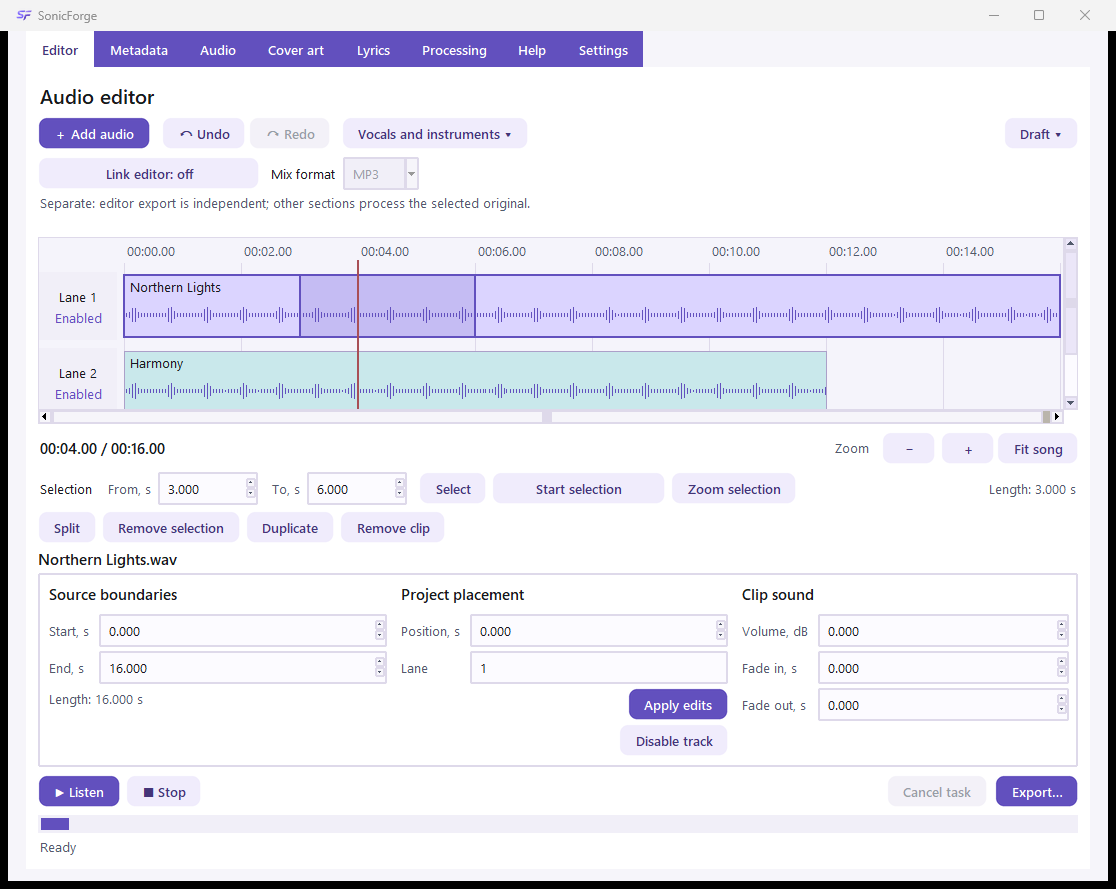
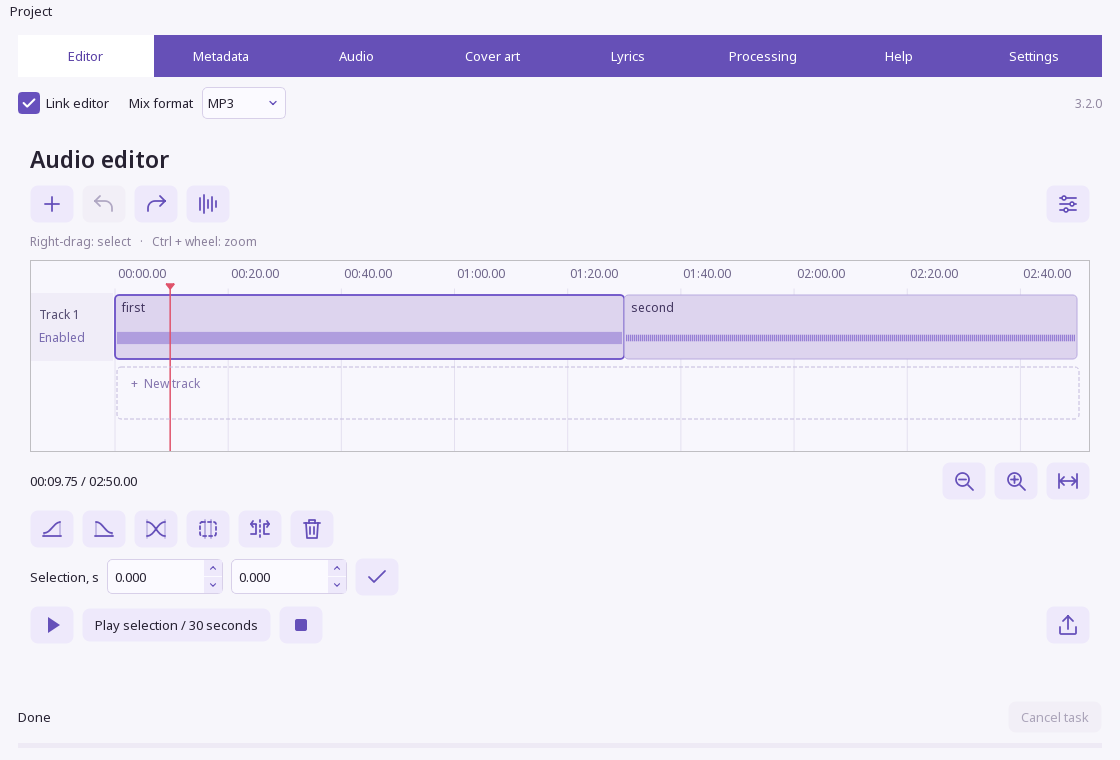
Improve download buttons and add complete English documentation

diff --git a/README.en.md b/README.en.md
@@ -1,0 +1,113 @@
+# SonicForge 3.2.0
+
+[RU](README.md) · **English**
+
+An audio editor for Windows with multitrack editing, audio processing, metadata, procedural cover art and synchronized lyrics. Built with **C++20 / Qt 6**, SonicForge runs recognition, lyric alignment and stem separation locally. No Python runtime is required.
+
+## Download
+
+<p>
+  <a href="https://github.com/dumuzeyn/SonicForge/releases/download/v3.2.0/SonicForge-Setup.exe"><img src="docs/images/download-installer-en.svg" alt="Download the SonicForge Windows installer" width="240" height="68"></a>
+  <a href="https://github.com/dumuzeyn/SonicForge/releases/download/v3.2.0/SonicForge-windows-x64.zip"><img src="docs/images/download-portable-en.svg" alt="Download the SonicForge portable ZIP" width="240" height="68"></a>
+  <a href="https://github.com/dumuzeyn/SonicForge/releases/download/v3.2.0/SonicForge-Uninstall.exe"><img src="docs/images/download-uninstaller-en.svg" alt="Download the standalone SonicForge uninstall launcher" width="240" height="68"></a>
+</p>
+
+[SHA-256 checksums](https://github.com/dumuzeyn/SonicForge/releases/download/v3.2.0/SHA256SUMS.txt) · [Release 3.2.0](https://github.com/dumuzeyn/SonicForge/releases/tag/v3.2.0) · [All releases](https://github.com/dumuzeyn/SonicForge/releases) · [Release notes](docs/RELEASE-3.2.0.en.md)
+
+**Requirements:** Windows 10/11 x64. Qt, FFmpeg and the required runtime libraries are included. Neural features need an AVX2-capable CPU and several gigabytes of available RAM. The standard release uses the CPU; Whisper Turbo uses less memory than Large.
+
+The installer and portable ZIP exclude the large recognition, alignment and separation models. When a feature first needs a model, SonicForge downloads it to your user data folder and verifies its SHA-256 hash. Internet access is needed for this initial download; processing then runs locally. You can edit audio or metadata without downloading every model.
+
+Release files are **not Authenticode-signed** because a publisher certificate is not available. SHA-256 checksums let you compare a download with the published file, but do not replace a trusted publisher signature. To check a downloaded file in PowerShell:
+
+```powershell
+Get-FileHash .\SonicForge-Setup.exe -Algorithm SHA256
+```
+
+![SonicForge 3.2 audio editor in English](docs/images/editor-en.png)
+
+## What's new in 3.2.0
+
+- `.sfproject` files save your edit, timestamped lyrics, settings and cover design. Autosave can restore an unfinished session after a crash.
+- Backups for replaced TXT/LRC files and exports, atomic writes and SHA-256 checks for source files. Individual batch failures are reported without discarding successful tracks.
+- MP3 SYLT and language-specific lyric tracks are preserved. Changing playback speed scales lyric timestamps. Damaged ID3 tags are validated before writing.
+- Large edits export without exceeding the Windows command-line limit or appending unbounded silence. Internal processing uses float PCM; export options include sample rate, channel count, WAV bit depth, FLAC and Opus.
+- Preview a selected excerpt using the final codec and quality. Audio processing with the limiter enabled checks true peak after encoding.
+- Faster drawing of the visible timeline, bounded undo history, precise numeric input, standard text editing menus and persistent audio settings.
+- Windows installed-app registration, a Start menu uninstall shortcut, a standalone uninstall launcher and compact downloads with models fetched on demand.
+
+## Features
+
+**Editing.** Scrollable tracks, drag-and-drop import, clip movement, splitting, duplication, range selection and deletion. Adjust clip volume and speed, apply a three-band EQ, fade clip edges and crossfade adjacent songs. Export WAV, MP3, M4A, FLAC and Opus. Undo and redo retain up to 100 edits.
+
+**Audio processing.** Loudness normalization, limiting, EQ, compression, filters, denoising, playback speed, pitch, stereo width, reverb and fades. Two players compare the original and processed excerpt; green seek-bar marks highlight changed regions. Automatic denoising is experimental and disabled by default.
+
+**Metadata.** MP3/ID3, FLAC, M4A, Ogg and Opus, embedded cover art, lyrics and separate TXT/LRC files. Editing one MP3 lyric language track preserves the others. Unsupported embedding is reported explicitly.
+
+**Cover art.** Three Music2Picture procedural styles: M2Pv1 spectral contours, M2Pv2 organic shapes and M2Pv3 textures that develop over time. M2Pv3 colors reflect local rhythm speed and density. Choose from 66 central symbols, create a palette, import an image, adjust fonts and text placement, or export PNG. The **Cover art** processing step embeds the result in the output audio file.
+
+**Lyrics and neural tools.** Add timestamps during playback, recognize lyrics with Whisper Large v3 or Turbo, or align supplied Russian or English lyrics directly to the audio. Timing correction preserves the supplied words and repeated lines. HTDemucs produces vocals/instrumental or four stems. MSD musicnn predicts genre labels from sections of the recording; automatic genre assignment is a separate opt-in setting.
+
+The application supports English and Russian. Select English on the **Settings** tab. Right-click an editor tool to see its name and contextual help.
+
+## Install, update and uninstall
+
+1. Run `SonicForge-Setup.exe`. It installs for the current Windows user in `%LOCALAPPDATA%\Programs\Sonic Forge`. Running the installer again updates the existing copy. Close SonicForge first: the installer does not forcibly terminate an open session.
+2. Open **Sonic Forge** from the Start menu. It also appears in **Settings > Apps > Installed apps** in Windows.
+3. Uninstall through Windows installed apps, the **Uninstall Sonic Forge** Start menu shortcut, or `SonicForge-Uninstall.exe`. The standalone launcher finds the installed copy and opens its standard uninstall confirmation. Your settings and personal audio files are preserved.
+
+For the portable edition, extract the entire ZIP and run `SonicForge/SonicForge.exe`. A portable copy is not registered in Windows installed apps. The standalone uninstall launcher is intended for the installed edition.
+
+## Workflow and saving
+
+Add files to the editor. **Link editor** passes the current edit to the other tabs; when disabled, those tabs use a separately selected file. **Processing** applies the enabled steps to copies in the output folder. **Save lyrics** can write lyrics directly into a selected MP3 with a backup, or save a separate TXT/LRC file.
+
+Use **Ctrl+S** to save a project and **Ctrl+O** to open one. Keep the `.sfproject.assets` folder alongside its project: it contains audio generated by SonicForge and the cover background. External source paths retain their original locations, so those files must remain available too. Backups of replaced files are stored in a neighboring `.sonicforge-backups` folder.
+
+| Action | Controls |
+|---|---|
+| Import audio | Ctrl+I |
+| Split / duplicate a clip | Ctrl+K / Ctrl+D |
+| Undo / redo | Ctrl+Z / Ctrl+Shift+Z |
+| Export the edit | Ctrl+E |
+| Zoom the timeline | Ctrl + mouse wheel |
+| Select a time range | Right-button drag |
+| Select the neighboring clip | Page Up / Page Down |
+| Move the cursor / selected clip | Arrow keys / Shift + arrow keys |
+| Timestamp the next lyric line | F8, with a 45 ms lead before the sound |
+
+Recognition, stem separation and genre predictions can be wrong. Listen to the result and correct the lyrics or timestamps when needed. The genre vocabulary is limited by the trained model; a loudness preset is not an assessment of a recording's artistic quality.
+
+## Build from source
+
+You need Windows x64, Git, CMake 3.24+, Ninja and FFmpeg (`ffmpeg.exe` and `ffprobe.exe`). Install Qt 6.10.0 for MinGW 13.1 x64, including Multimedia, SVG and Image Formats, in `build/qt/6.10.0/mingw_64`; put the compiler in `build/qt/Tools/mingw1310_64`. CMake and Ninja must be on PATH or in `build/native-tools/cmake/bin` and `build/native-tools/bin`. Building the installer also requires Inno Setup 6.
+
+```powershell
+# Compile and run CTest
+.\scripts\build_native.ps1
+
+# Update dist/SonicForge and build the installer, uninstall launcher and ZIP
+.\scripts\build_native.ps1 -Deploy -Installer -Portable -FfmpegRoot C:\ffmpeg
+```
+
+Dependency versions and hashes are pinned in `native/dependencies.json`, `native/runtime-lock.json` and `native/resources/models.json`. The full local bundle takes neural models from `build/native-models`; the release ZIP excludes the large models. `build-info.json` and `build-manifest.json` link the binaries to their source files and Git commit. The bundle is tested in `build` before replacing the canonical distribution folder. The installer and ZIP are also published by replacing prepared files.
+
+You can build Whisper with Vulkan using `-WhisperVulkan` if you have the Vulkan SDK and a compatible driver. This variant has not been separately validated; the standard build uses the CPU. Set `SF_CPU_ONLY=1` to disable GPU use in a GPU-capable build. HTDemucs and genre inference use the CPU.
+
+For Authenticode signing, set `SF_SIGN_CERT_SHA1` and install Windows SDK SignTool. Files remain unsigned without a certificate. The release script requires a clean working tree and matching commit, manifests and checksums; unsigned publication requires the explicit `-AllowUnsigned` switch.
+
+Cache files are separated into locked sessions, and inactive sessions are cleaned up. The default limit is 8 GiB, configurable with the QSettings key `cache/maxGiB`. Legacy temporary files from older versions are not deleted automatically.
+
+## Validation
+
+- **CTest:** core behavior, reliability regressions and GUI checks, including projects, timestamps, damaged tags, cancellation, file preservation and large edits.
+- **`scripts/check_native.ps1`:** the packaged app with a system-only PATH, real playback, lyrics, artwork, audio processing and clean shutdown. `-Neural` adds direct lyric alignment and four-stem separation.
+- **`scripts/check_installer.ps1 -FullPayload`:** isolated installation of the real bundle, upgrade, Windows registration, shortcuts and uninstall while preserving a personal file.
+- **`scripts/check_lyrics_quality.ps1 -Full`:** synthetic Russian and English speech with Large. Use `-RecognitionModel turbo` to test Turbo. Run heavy neural tests sequentially.
+- **GitHub Actions:** PowerShell/JSON validation and a standalone uninstall-launcher build on Windows.
+
+Python is required neither to run nor to build the application. The previous Python implementation is available in Git history and the `v3.0.0` tag. The detailed [audit](docs/AUDIT-2026-10-25.md) and [fix log](docs/FIXES-2026-10-26.md) are available in Russian.
+
+## License
+
+Original code and artwork: [LICENSE](LICENSE), SonicForge Noncommercial and Educational License 1.0. Third-party libraries, models and fonts have their own licenses; see the [third-party notices and source links](packaging/THIRD_PARTY_NOTICES.md).

diff --git a/docs/RELEASE-3.2.0.en.md b/docs/RELEASE-3.2.0.en.md
@@ -1,0 +1,29 @@
+# SonicForge 3.2.0
+
+[English README](../README.en.md) · [Download this release](https://github.com/dumuzeyn/SonicForge/releases/tag/v3.2.0)
+
+Reliability improvements following the October 25, 2026 audit.
+
+- Project saving and opening, autosave and recovery. Projects retain the edit, timestamped lyrics, cover design and settings.
+- Backups for replaced lyrics and exports, atomic writes, SHA-256 source checks, rollback of batch publication and separate reports for failed tracks.
+- Preserved SYLT and language-specific MP3 lyric tracks, timestamp scaling when speed changes, damaged-ID3 validation and support for common ID3v2.2/v2.3/v2.4 tags.
+- Large edits export without overflowing the Windows command line or appending unbounded silence. Internal processing uses float PCM, with selectable sample rate, channels and WAV bit depth, plus FLAC and Opus export. Preview uses the selected final codec and quality; processing with the limiter enabled checks true peak after encoding.
+- Whole-recording analysis, bounded undo history, efficient drawing of the visible timeline, precise numeric input, standard text editing menus and persistent audio settings.
+- Cache limits and cleanup, managed cancellation and timeouts, repair of damaged models in a writable user folder, and bounded-memory alignment of long lyrics.
+- Compact installer and portable ZIP with large models downloaded on demand. Windows installed-app registration, a Start menu uninstall shortcut and a standalone uninstall launcher. Distribution updates are staged and verified before replacement.
+- Build provenance manifests, pinned runtime hashes, additional regression checks and a Windows packaging workflow.
+
+## Downloads
+
+- `SonicForge-Setup.exe`: install or update the application for the current Windows user.
+- `SonicForge-Uninstall.exe`: find the installed copy and open its standard uninstall confirmation.
+- `SonicForge-windows-x64.zip`: extract everything and run `SonicForge/SonicForge.exe`.
+- `SHA256SUMS.txt`: SHA-256 checksums for the three files above.
+
+The installer and ZIP exclude large Whisper, CTC and HTDemucs models. Internet access is needed for their first download; processing runs locally after that. Model files are checked with SHA-256 and stored in the user data folder. Uninstall preserves settings and personal audio files.
+
+## Validation and limits
+
+Validation covered three CTest suites, the packaged app with a system-only PATH, installation/upgrade/uninstall of the real bundle, four float32 stems and synthetic Russian/English speech with Whisper Large. Word error rates on these short samples were 5.26% and 0%; maximum line-onset errors after accounting for the 45 ms lead were 50 and 70 ms. These results do not establish accuracy on arbitrary singing.
+
+The release is not Authenticode-signed: a trusted publisher signature requires a publisher certificate. Recognition, vocal separation, denoising and genre inference can make mistakes; listen to and review the results. The standard build uses the CPU. An optional Whisper Vulkan build requires an SDK and compatible driver and has not been separately validated.
